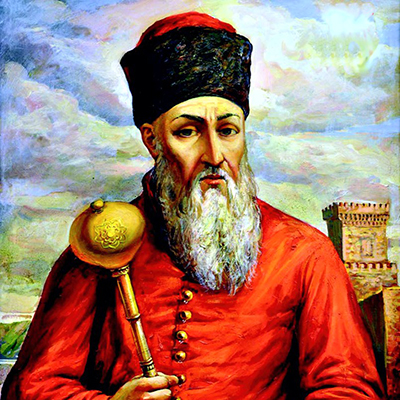
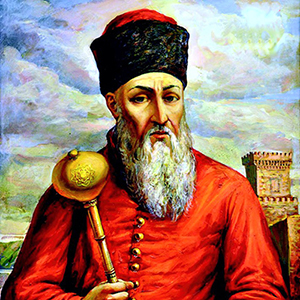
Адаптивность страниц

diff --git a/css/main.css b/css/main.css
@@ -15,7 +15,11 @@ h1, h2, h3, h4 {
 h1 {
   text-align: center;
   font-weight: bold;
-  text-transform: uppercase;
+}
+
+img {
+  width: 100%;
+  height: auto;
 }
 
 #header {
@@ -204,13 +208,15 @@ a.error-main-link:hover {
 
 #container {
   width: 100%;
-  margin:0 auto;
+  margin: 0 auto;
   background: #fff;
   overflow: hidden;
 }
+
 #sidebar {
   float:left;
-  min-width: 300px;
+  width: 300px;
+  /*width: 25%;*/
   min-height: 100vh;
   background: #0f0;
   background: url('../img/bg.jpg');
@@ -218,6 +224,7 @@ a.error-main-link:hover {
   -moz-box-shadow: 0px 0px 39px 3px rgba(0,0,0,0.61);
   box-shadow: 0px 0px 39px 3px rgba(0,0,0,0.61);
   position: fixed;
+  overflow: hidden;
   z-index: 101;
 }
 
@@ -285,25 +292,26 @@ a.error-main-link:hover {
 
 #content {
   float: right;
-  width: 80%;
+  width: calc(100vw - 350px);
   min-height: 100vh;
   padding: 20px;
 }
 
 .content-welcome {
-  margin-top: 50px;
-  min-height: 414px;
-  background: url(../img/scroll.png) no-repeat;
-  background-position: center top;
-  background-size: auto;
-  position: relative;
+  display: block;
+  background: #fff5ec;
+  border-left: 3px solid #fce1ca;
+  border-right: 3px solid #fce1ca;
+  margin-bottom: 50px;
+  padding: 20px;
+  border-radius: 20px;
 }
 
 .content-welcome-text {
   text-align: center;
-  width: 50%;
+  /*width: 60%;*/
   margin: 0 auto;
-  padding-top: 50px;
+  /*padding-top: 50px;*/
 }
 
 .content-welcome-text p {

diff --git a/application/views/main_dashboard_view.php b/application/views/main_dashboard_view.php
@@ -8,10 +8,10 @@
 			<div class="main-menu">
 				<ul>
 					<li><a href="/"> <i class="fa fa-home" aria-hidden="true"></i> Головна</a></li>
-					<li><a href="/Main/information"> <i class="fa fa-info" aria-hidden="true"></i> Інформація</a></li>
-					<li><a href="/Main/quests"> <i class="fa fa-tasks" aria-hidden="true"></i> Квести</a></li>
-					<li><a href="/Main/rating"> <i class="fa fa-bar-chart" aria-hidden="true"></i> Рейтинг</a></li>
-					<li><a href="/Main/settings"> <i class="fa fa-cogs" aria-hidden="true"></i> Налаштування</a></li>
+					<li><a href="/Information"> <i class="fa fa-info" aria-hidden="true"></i> Інформація</a></li>
+					<li><a href="/Quests"> <i class="fa fa-tasks" aria-hidden="true"></i> Квести</a></li>
+					<li><a href="/Rating"> <i class="fa fa-bar-chart" aria-hidden="true"></i> Рейтинг</a></li>
+					<li><a href="/Settings"> <i class="fa fa-cogs" aria-hidden="true"></i> Налаштування</a></li>
 				</ul>
 			</div>
 			<div class="advance">
@@ -25,22 +25,24 @@
 		<div id="content">
 			<div class="container-fluid">
 				<div class="row">
-					<div class="content-welcome">
-						<div class="content-welcome-text">
-							<p><b>Дорогий друже, раді вітати тебе на порталі <br> "Славетний шлях Петра Сагайдачного"!</b></p>
-							<p>Перед тим, як проходити квести, радимо тобі ознайомитися з біографією Петра Сагайдачного та основними подіями з його життя.</p>
-							<p>Зробити це можна на сторінці <a href="">Інформація</a>.</p>
+					<div class="col-sm-12">
+						<div class="content-welcome">
+							<div class="content-welcome-text">
+								<p><b>Дорогий друже, раді вітати тебе на порталі "Славетний шлях Петра Сагайдачного"!</b></p>
+								<p>Перед тим, як проходити квести, радимо тобі ознайомитися з біографією Петра Сагайдачного та основними подіями з його життя.</p>
+								<p>Зробити це можна на сторінці <a href="">Інформація</a>.</p>
+							</div>
 						</div>
 					</div>
 				</div>
 				<div class="row">
 					<h1>Довідка</h1>
 					<div class="col-sm-3">
-						<img src="/img/portrait.jpg" class="img-circle" alt="" width="300" height="300" style="border: 3px solid #5d0909;">
+						<center><img src="/img/portrait.jpg" class="img-circle" alt="" style="border: 3px solid #5d0909;"></center>
 					</div>
 					<div class="col-sm-9">
 						<div class="content-info">
-							<p><b>Петро Кононович Конашевич-Сагайдачний</b> народився бл. 1582р. в селі Кульчиці в православній родині (тепер село Самбірського району Львівської області). <br> Упродовж 1589–1592 рр. здобував початкову освіту у Самборі. З 1592 по 1598 роки навчався в Острозькій академії. <br> Після випуску П.Сагайдачний переїхав до Львова, згодом — до Києва, де працював домашнім учителем, також помічником київського земського судді. <br> Змалку навчався військовій справі, вмів стріляти з лука, був високоосвіченою, інтелігентною, глибоко релігійною людиною. Брав участь в Молдавській і Лівонської кампаніях 1600-1603 рр.</p>
+							<p><b>Петро Кононович Конашевич-Сагайдачний</b> народився бл. 1582р. в селі Кульчиці в православній родині (тепер село Самбірського району Львівської області). <br><br> Упродовж 1589–1592 рр. здобував початкову освіту у Самборі. З 1592 по 1598 роки навчався в Острозькій академії. <br><br> Після випуску П.Сагайдачний переїхав до Львова, згодом — до Києва, де працював домашнім учителем, також помічником київського земського судді. <br><br> Змалку навчався військовій справі, вмів стріляти з лука, був високоосвіченою, інтелігентною, глибоко релігійною людиною. Брав участь в Молдавській і Лівонської кампаніях 1600-1603 рр.</p>
 						</div>
 						<a href="" class="content-info-link">Читати далі <i class="fa fa-arrow-right" aria-hidden="true"></i> </a>
 					</div>
@@ -64,11 +66,11 @@
 
 					<div class="footer-menu">
 						<ul>
-							<li><a href=""> <i class="fa fa-home" aria-hidden="true"></i> Головна</a></li>
-							<li><a href=""> <i class="fa fa-info" aria-hidden="true"></i> Інформація</a></li>
-							<li><a href=""> <i class="fa fa-tasks" aria-hidden="true"></i> Квести</a></li>
-							<li><a href=""> <i class="fa fa-bar-chart" aria-hidden="true"></i> Рейтинг</a></li>
-							<li><a href=""> <i class="fa fa-cogs" aria-hidden="true"></i> Налаштування</a></li>
+							<li><a href="/"> <i class="fa fa-home" aria-hidden="true"></i> Головна</a></li>
+							<li><a href="/Information"> <i class="fa fa-info" aria-hidden="true"></i> Інформація</a></li>
+							<li><a href="/Quests"> <i class="fa fa-tasks" aria-hidden="true"></i> Квести</a></li>
+							<li><a href="/Rating"> <i class="fa fa-bar-chart" aria-hidden="true"></i> Рейтинг</a></li>
+							<li><a href="/Settings"> <i class="fa fa-cogs" aria-hidden="true"></i> Налаштування</a></li>
 						</ul>
 					</div>
 

diff --git a/application/views/main_view.php b/application/views/main_view.php
@@ -3,13 +3,13 @@
 </header>
 
 <div class="container">
-    <form action="Main/login" method="post" id="auth-form">
+    <form action="/Main/login" method="post" id="auth-form">
 <div class="auth-form-header">
     <h4 class="text-center">
         <div style="display:inline-block">
             <p>Авторизація</p>
             <img class="logo" src="/img/logo.png" alt="">
-            <p><a href="SignUp">Реєстрація</a></p>
+            <p><a href="/SignUp">Реєстрація</a></p>
             <div class="cb"></div>
         </div>
     </h4>

diff --git a/application/views/template_view.php b/application/views/template_view.php
@@ -10,7 +10,7 @@
 
     <title>Главная</title>
     <link rel="stylesheet" href="/libs/bootstrap/bootstrap.min.css" media="screen" title="no title" charset="utf-8">
-    <link rel="stylesheet" href="../../libs/fontawesome/css/font-awesome.min.css">
+    <link rel="stylesheet" href="/libs/fontawesome/css/font-awesome.min.css">
 
     <link rel="stylesheet" href="/css/main.css" media="screen" title="no title" charset="utf-8">
 

diff --git a/application/views/405_view.php b/application/views/405_view.php
@@ -2,7 +2,7 @@
 	<div class="row">
 		<div class="col-sm-12">
 			<div class="error">
-				<img src="../../img/gray-logo.png" alt="">
+				<img src="/img/gray-logo.png" alt="">
 				<h1>405</h1>
 				<p>Method Not Allowed!</p>
 			</div>

diff --git a/application/views/403_view.php b/application/views/403_view.php
@@ -2,7 +2,7 @@
 	<div class="row">
 		<div class="col-sm-12">
 			<div class="error">
-				<img src="../../img/gray-logo.png" alt="">
+				<img src="/img/gray-logo.png" alt="">
 				<h1>403</h1>
 				<p>Forbidden!</p>
 			</div>

diff --git a/application/views/404_view.php b/application/views/404_view.php
@@ -2,7 +2,7 @@
 	<div class="row">
 		<div class="col-sm-12">
 			<div class="error">
-				<img src="../../img/gray-logo.png" alt="">
+				<img src="/img/gray-logo.png" alt="">
 				<h1>404</h1>
 				<p>Not Found</p>
 			</div>

diff --git a/application/views/main_dashboard_information_view.php b/application/views/main_dashboard_information_view.php
@@ -1,0 +1,3 @@
+<div class="container">
+    
+</div>
